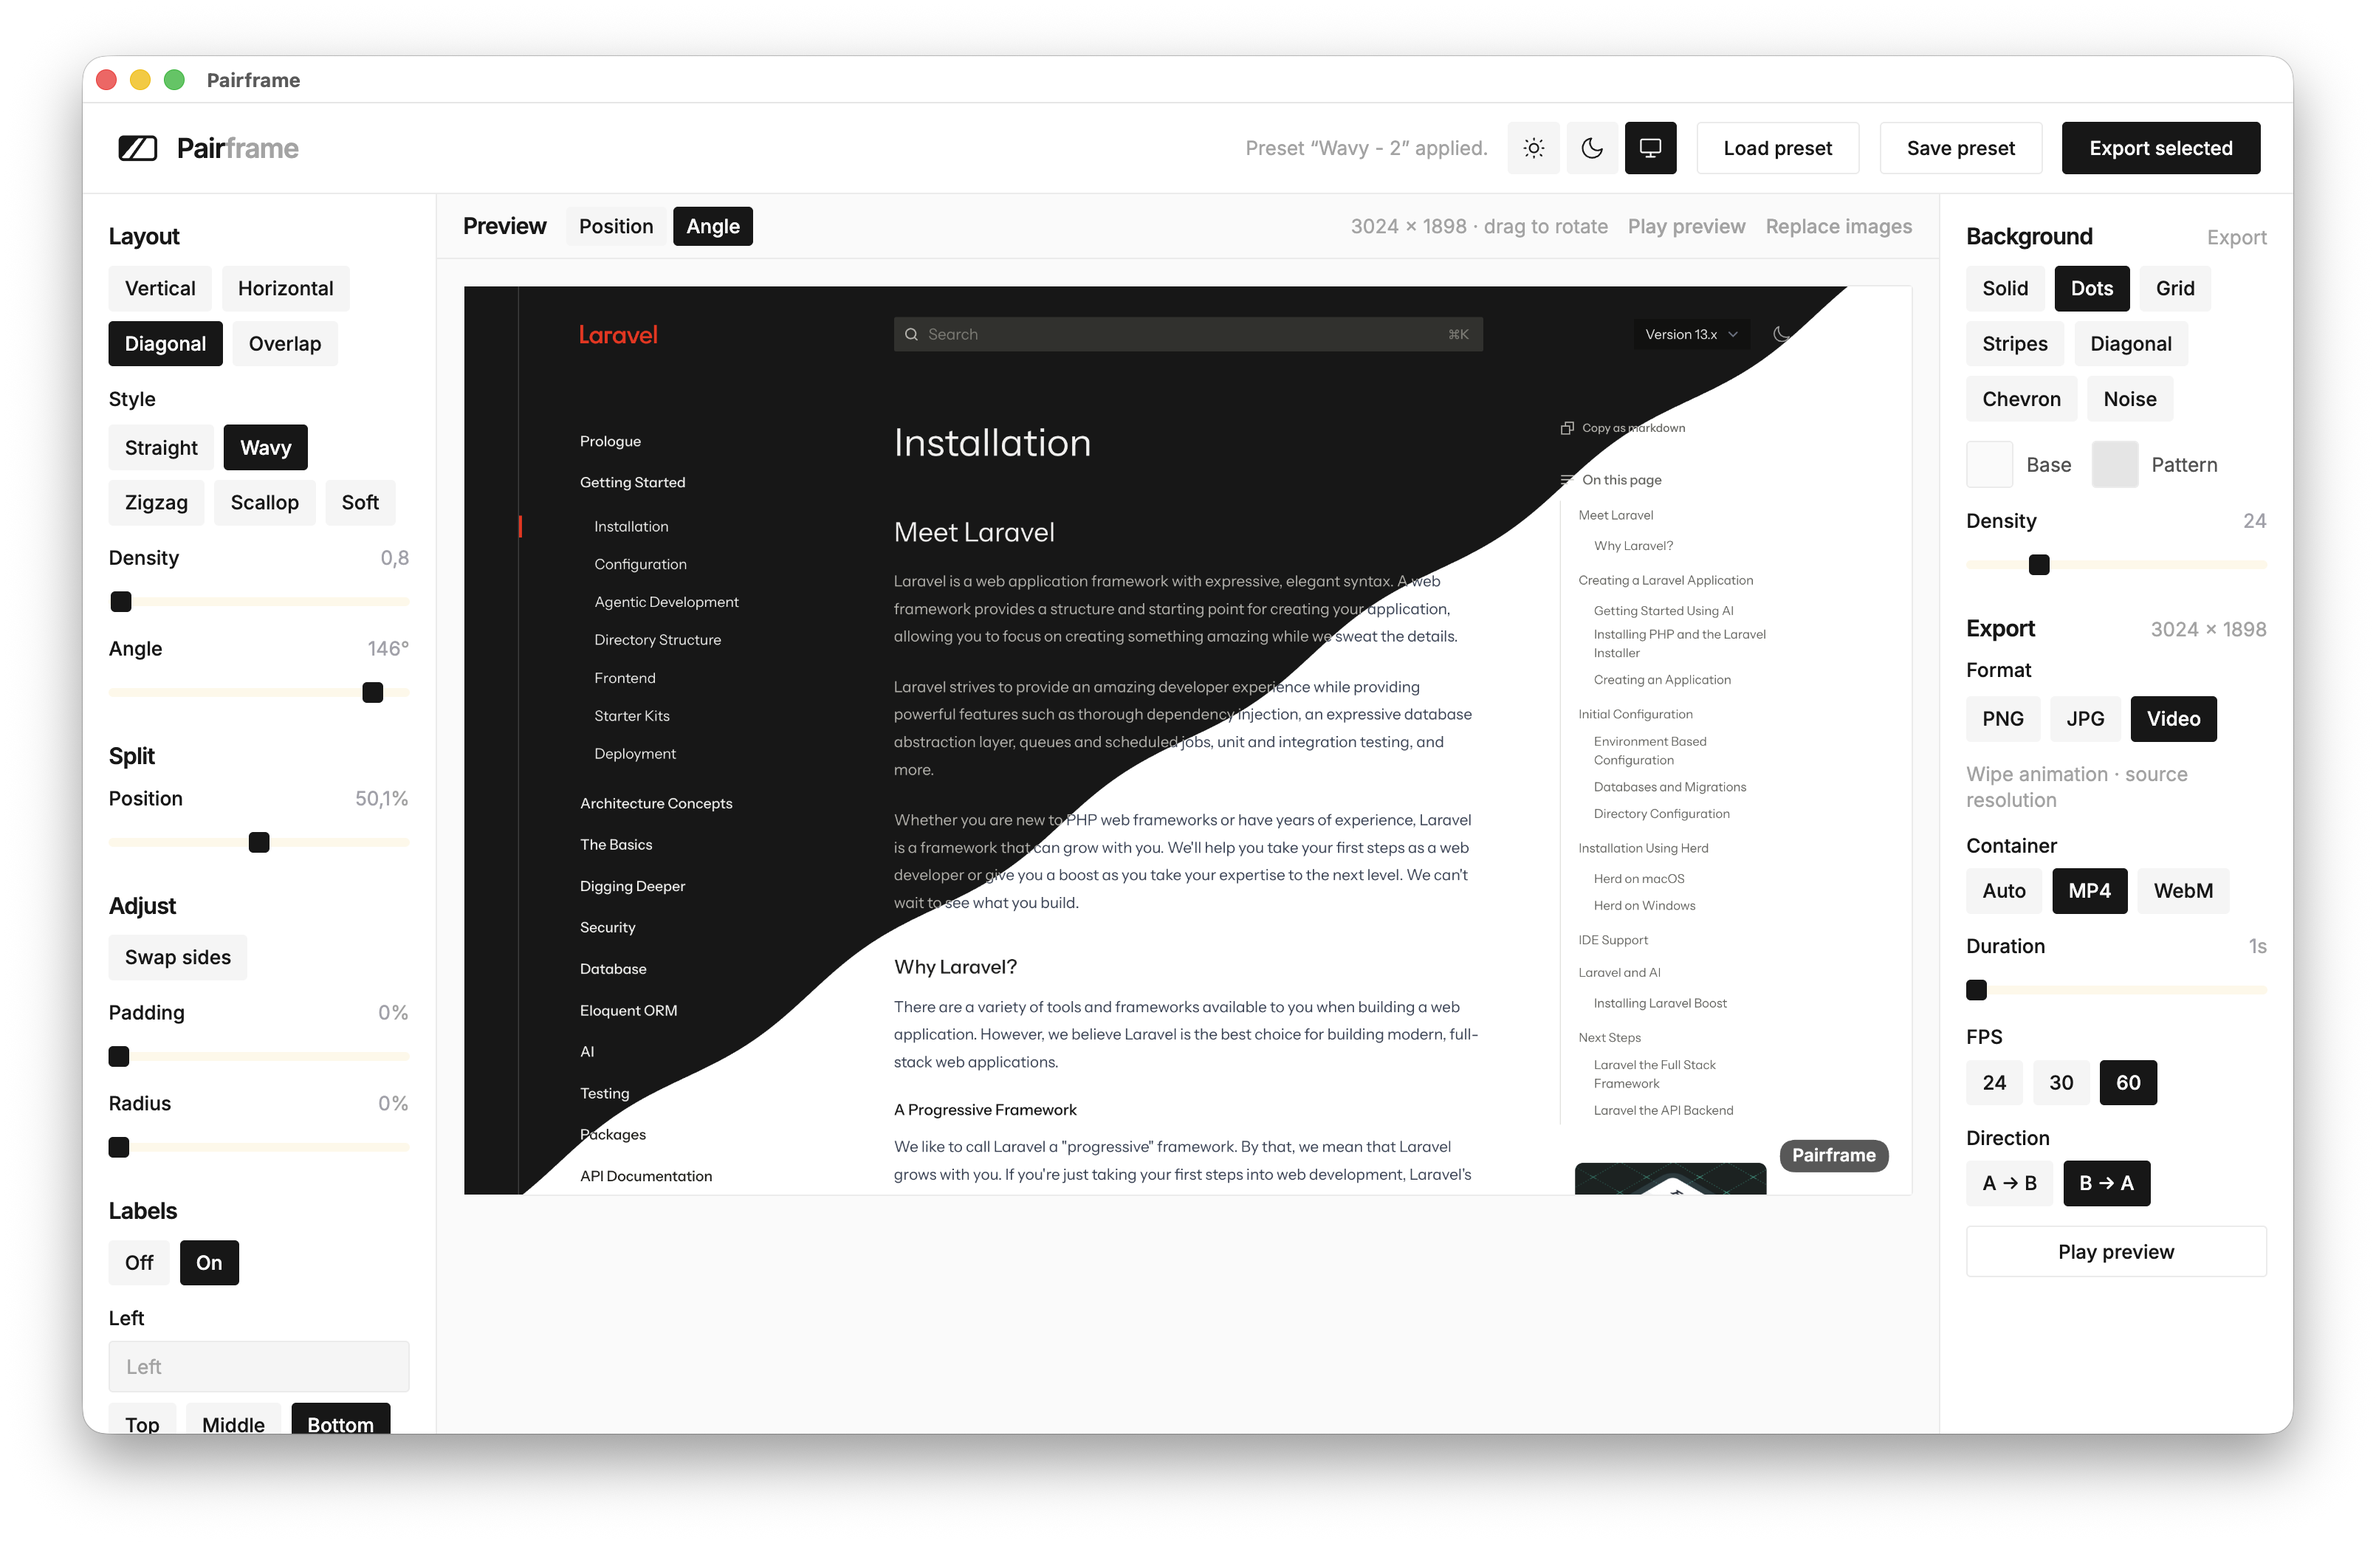
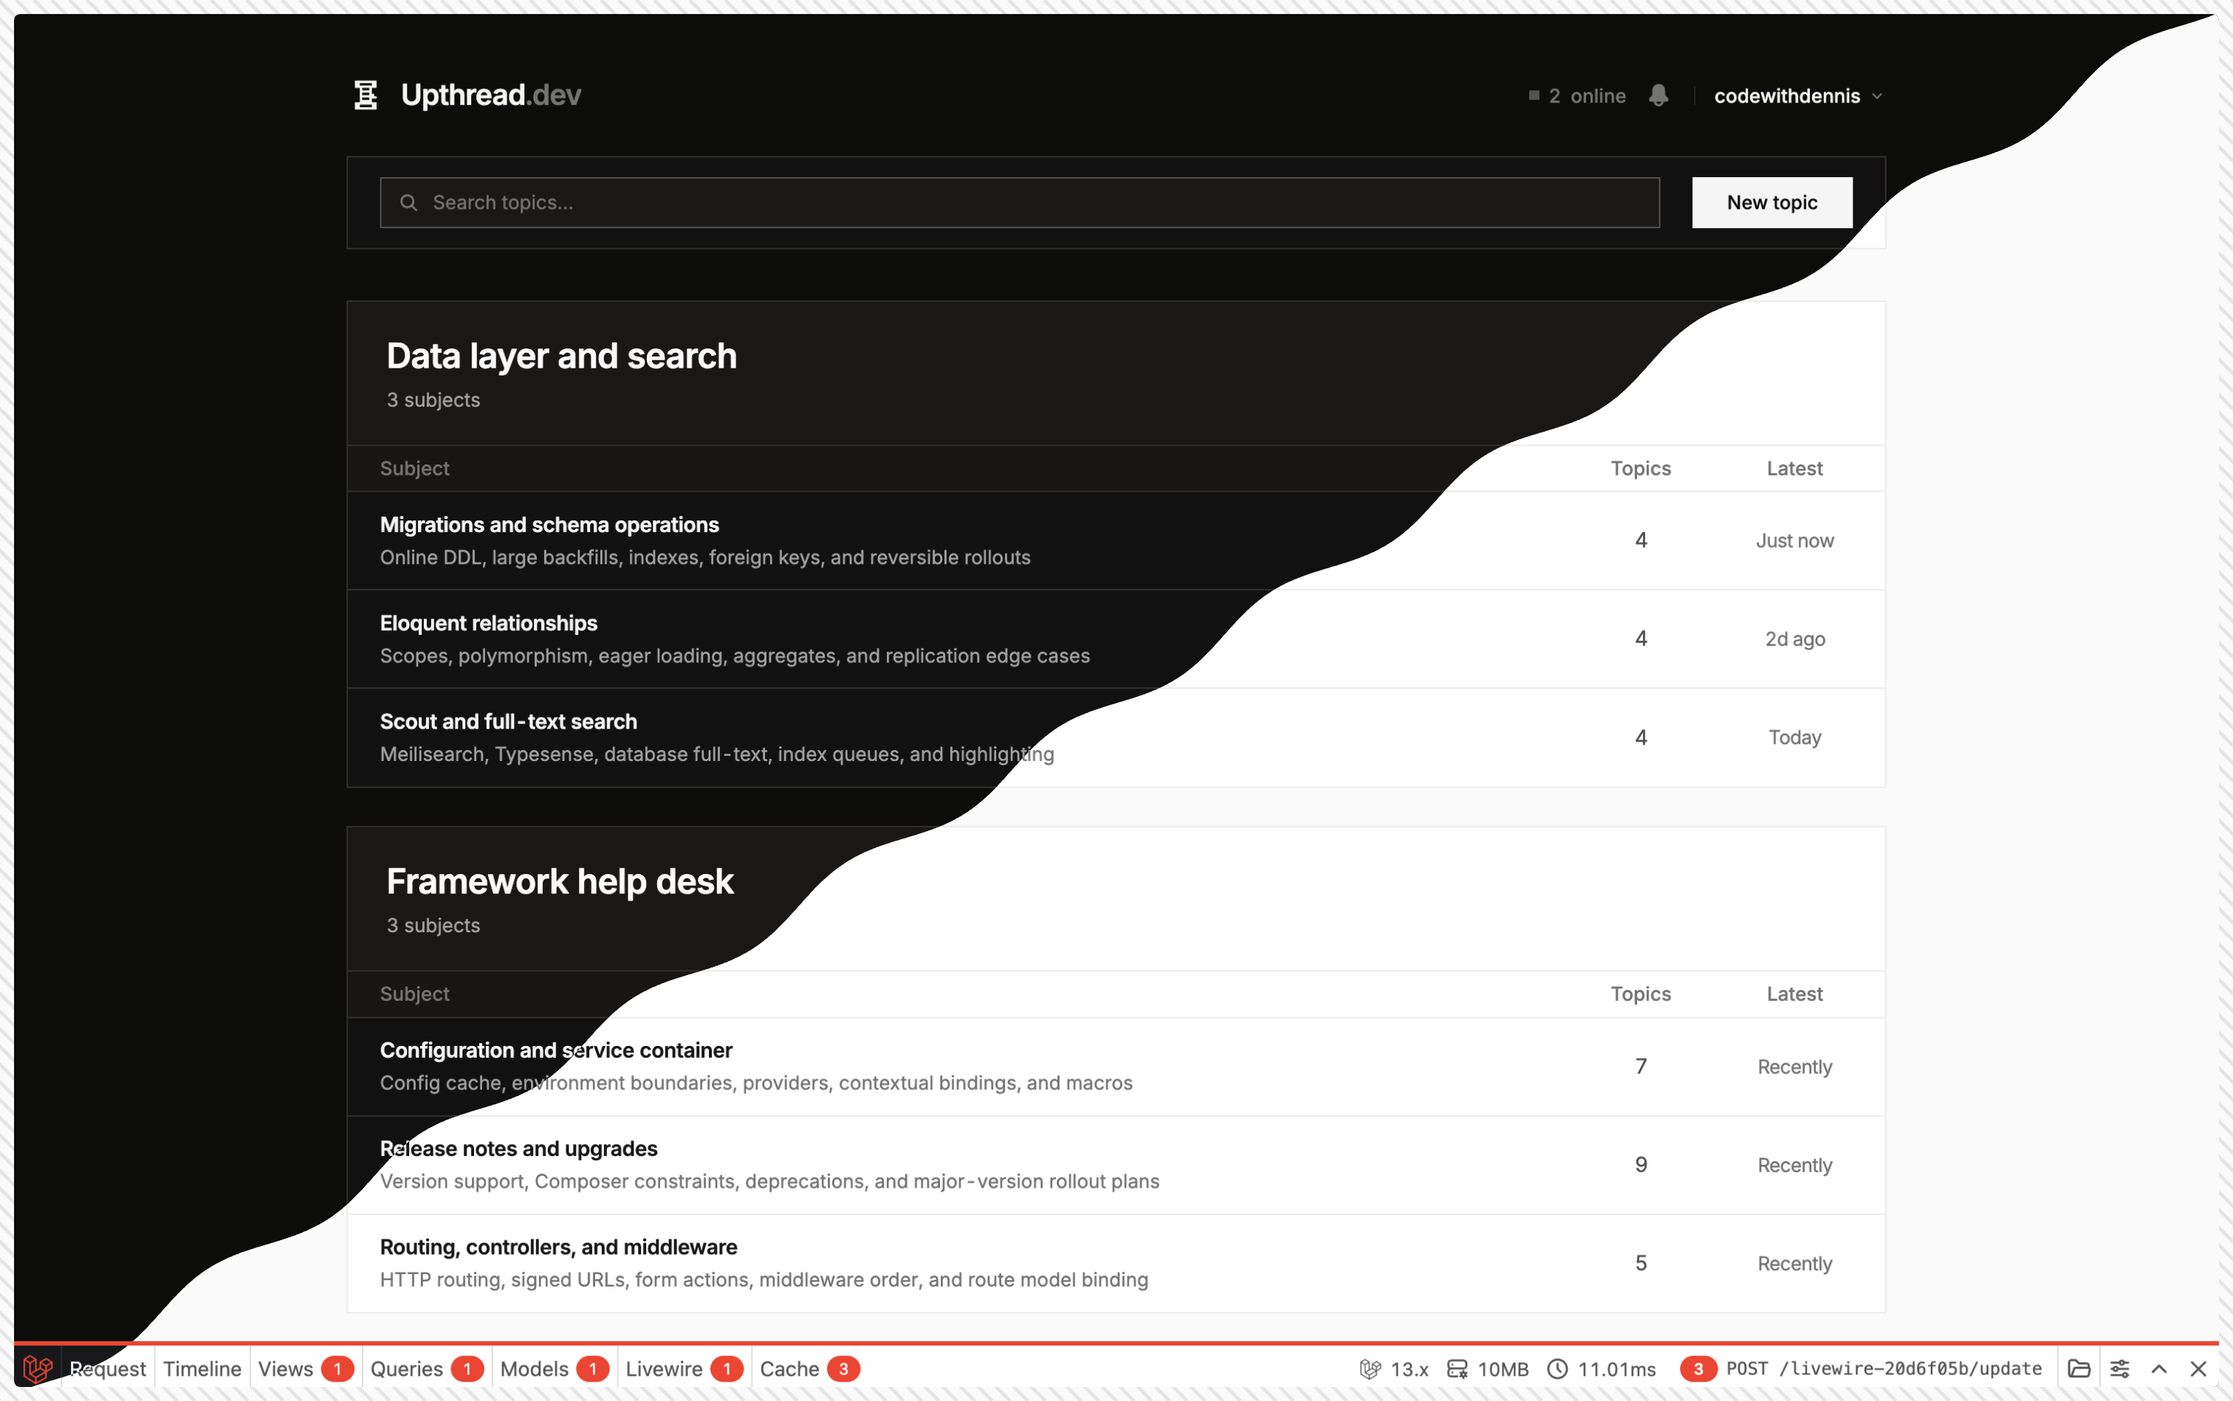
docs: refresh README screenshot for current UI

diff --git a/README.md b/README.md
@@ -1,8 +1,8 @@
 # Pairframe
 
-NativePHP desktop app to compose two screenshots into split or overlap thumbnails, with background patterns and PNG, JPG, or transition-video export.
+NativePHP desktop app to compose two screenshots into split or overlap thumbnails, with background patterns, overlays, and PNG, JPG, GIF, or transition-video export.
 
-![Pairframe desktop app with diagonal wavy split preview and video export selected](docs/pairframe.png)
+![Pairframe desktop app with split preview, collapsible sidebars, and export controls](docs/pairframe.png)
 
 **Heads up: this project is AI-assisted.** A lot of the code and docs were written with AI tools (reviewed and steered by me). Pairframe exists first for my own thumbnail workflow; I open-sourced it in case it helps someone else. Issues and pull requests are welcome, just know what you're looking at.
 
